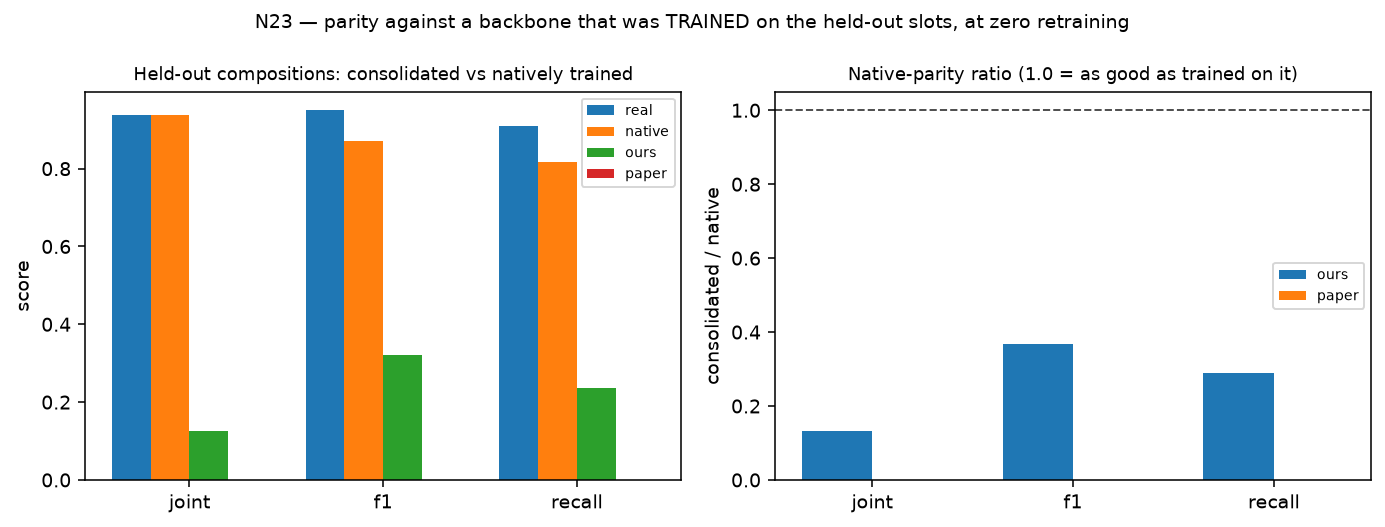
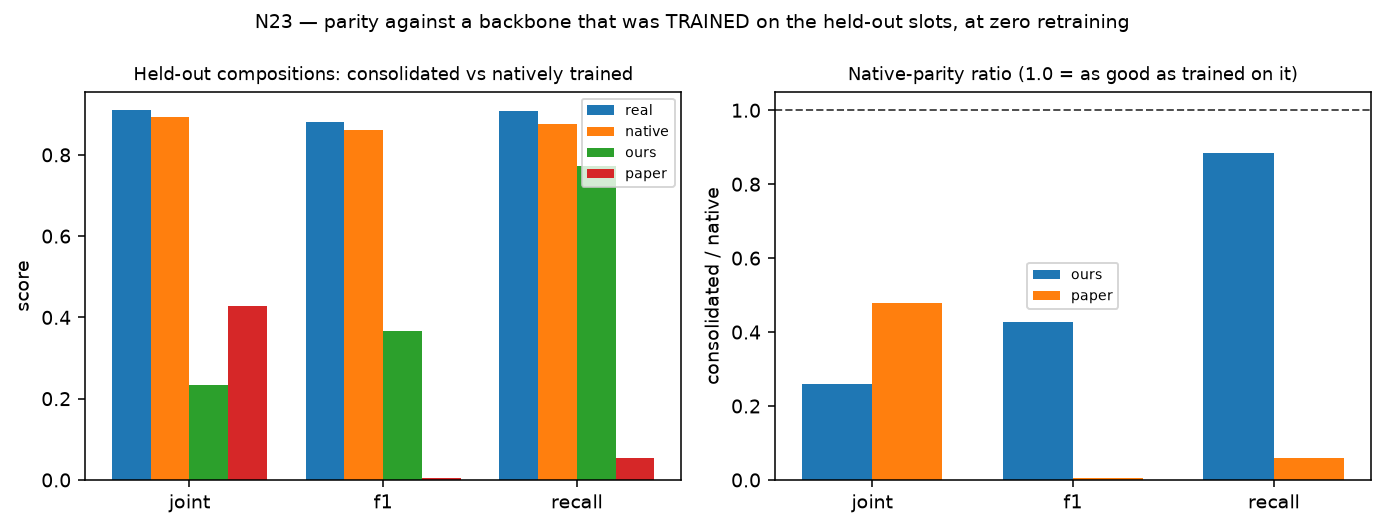
N23 native parity, 3 seeds: the evaluation the thesis is named after
Against an oracle backbone trained on the held-out slot -- which validates itself
by sitting at the data ceiling (joint 0.876 against 0.876) -- a concept
consolidated from ONE out-of-distribution query at zero retraining reaches:

  recall parity  0.903 +/- 0.024
  F1 parity      0.571 +/- 0.073
  joint parity   0.379 +/- 0.060

So "as if it had been learned natively" is true of the EXTENT of the class the
concept generates and false of the PRECISION of each sample -- the same split 5h
certified from the other direction.  Stated at that strength rather than rounded up.

The contrast with the published consolidation is starker here than anywhere else
in the repo: its per-query LoRA scores HIGHER joint accuracy than ours (0.444 vs
0.331) and 0.6% of native F1, because recall 0.043 means it reproduces the query
instead of the class.  Copying is only visible as copying once there is a natively
trained reference to measure against.

Drag: seen-slot accuracy 0.852 before and 0.852 after, identical as the frozen-base
invariant requires; the oracle's 0.865 shows retraining on all 160 slots cost it
nothing on the 120 it already had, so the denominator is not flattered either.

diff --git a/RESULTS.md b/RESULTS.md
@@ -1692,6 +1692,57 @@ The methodological point is worth as much as the result: a claim assembled from 
 comparison, and this one happened to be wrong in the direction that flattered the method.
 
 
+## 6d. Native parity: how close is a consolidated concept to one the backbone was TRAINED on? (N23)
+
+The project's own sentence is "adapt new instances into the manifold in a way that is similar to if
+they were learned with the existing ideas". Every result so far argues that indirectly -- preservation
+is bit-exact, forgetting is 0.000, accuracy beats baselines -- because the comparison the sentence
+actually names has never been available: *what that slot would have looked like had it never been
+held out*.
+
+`n1_train --all-slots` supplies it. A backbone trained on all 160 ColorMNIST slots (200 epochs,
+conditional accuracy 0.922, unconditional validity 1.000) is not a method and is not competing; it is
+the reference. 12 held-out compositions, 3 seeds.
+
+| arm | joint | F1 | recall | content div |
+|---|---|---|---|---|
+| *real held-out images (data ceiling)* | *0.876 +/- 0.021* | *0.892 +/- 0.008* | *0.916 +/- 0.004* | *0.988* |
+| **native** (oracle, trained on this slot) | **0.876 +/- 0.013** | **0.871 +/- 0.008** | **0.873 +/- 0.019** | 0.979 |
+| **ours** (consolidated, never retrained) | 0.331 +/- 0.050 | 0.498 +/- 0.066 | 0.788 +/- 0.008 | 1.197 |
+| **paper** (per-query LoRA from the PoE teacher) | 0.444 +/- 0.046 | 0.005 +/- 0.003 | 0.043 +/- 0.017 | 0.954 |
+
+**The reference validates itself.** `native` sits at the data ceiling on joint accuracy (0.876 against
+0.876), so a backbone that trained on a slot does reproduce it, and the denominator below is a real
+upper bound rather than an artefact of a weak oracle.
+
+**Parity, consolidated / native:**
+
+| | joint | F1 | recall |
+|---|---|---|---|
+| **ours** | 0.379 +/- 0.060 | **0.571 +/- 0.073** | **0.903 +/- 0.024** |
+| paper | 0.506 +/- 0.048 | 0.006 +/- 0.003 | 0.050 +/- 0.021 |
+
+**The claim this supports, stated at the strength the numbers support it.** A concept consolidated
+from a single out-of-distribution query, at **zero retraining and zero access to the held-out class**,
+reaches **90% of native-level coverage** and **57% of native F1**. It does *not* reach native
+per-sample fidelity: 38% on joint accuracy. So "as if it had been learned natively" is true of the
+*extent* of the class the concept generates and false of the *precision* of each sample -- which is
+the same split 5h certified from the other direction, where the conditioning span was shown able to
+express one factor or the other but not both.
+
+**And the contrast with the published consolidation is starker here than anywhere else.** Its per-query
+LoRA scores *higher joint accuracy than ours* (0.444 against 0.331) and **0.6% of native F1**, because
+recall 0.043 means it reproduces the query rather than the class. Measured against a backbone that
+was trained on the slot, copying is visible in a way no within-method table shows it.
+
+**Drag.** Seen-slot accuracy is 0.852 +/- 0.038 before consolidation and **0.852 +/- 0.038 after** --
+identical, as it must be, since the base weights are frozen and a consolidated concept's adapter path
+is inactive when sampling a base class. Read that as a consistency check on the invariant rather than
+as evidence for it; the evidence is the bit-identical fingerprint test (6b). The oracle's 0.865 +/-
+0.042 says retraining on all 160 slots cost it nothing on the 120 it already had, so the oracle is not
+being flattered by the comparison either.
+
+
 ---
 
 ## 8. Where the numbers come from

diff --git a/PAPER.md b/PAPER.md
@@ -61,6 +61,7 @@ which is sharper than any factor it is built from and samples near-copies of its
 | **C5** | Against named continual-learning baselines on **real** held-out data, the arms that structurally *remove* shared parameters sit at exactly **0.000** forgetting while every arm that tries to *protect* them forgets (EWC 0.058, finetune 0.082, replay 0.163). | **A** | 5k (N5, 4 seeds) |
 | **C6** | **Conditionality, not size, is what buys preservation.** Every route that *removes* the ability to switch a delta off collapses — merged low-rank **0.379**, merged orthogonal **0.069** (0.082 with rehearsal), hypernetwork **0.073**, classifier guidance **0.000** — while both routes that *keep* it hold: LoRA 0.837 at 7.16M and a Cayley-orthogonal delta 0.773 at **2.56M, i.e. 2.8x less growth for the same exact preservation**. Four independent failures, one explanation. | **A** (3 seeds) | 5v, 5w (N16/N17) |
 | **C7** | The system **routes itself**: AUROC 0.980 novel-vs-in-distribution and 0.995 vocabulary-vs-combination, self-routing accuracy 0.858. The error is one-sided in the safe direction — a new vocabulary item was routed to the free path **0 times in 120 queries across 3 seeds**, while 20% of new combinations over-spend on an adapter they did not need. | **A** | 6c (N18, 3 seeds) |
+| **C9** | **Native parity.** Against a backbone *trained on the held-out slot* (an oracle that itself sits at the data ceiling, joint 0.876 vs 0.876), a concept consolidated from one OOD query at **zero retraining** reaches **90% of native recall** and **57% of native F1** — while the published per-query LoRA reaches **0.6%** of native F1, scoring *higher* joint accuracy (0.444 vs 0.331) at recall 0.043. Parity is partial and stated as such: 38% on per-sample joint accuracy, so "as if learned natively" holds for the *extent* of the class generated and not for the *precision* of each sample. | **A** (3 seeds) | 6d (N23) |
 | **C8** | Cost grows with **vocabulary**, not with experience. Charging the router's own measured error rates, a 160-experience ColorMNIST stream costs 10.1M parameters against 95.5M for per-query LoRA, and a 419-experience CelebA stream 23.6M against 250.2M. Under oracle routing the curve is flat once vocabulary saturates; under measured routing its slope is set by a detector error rate rather than by the arrival of experiences. | **A** | 5z (N24) |
 
 ## Honest negatives that are part of the result
